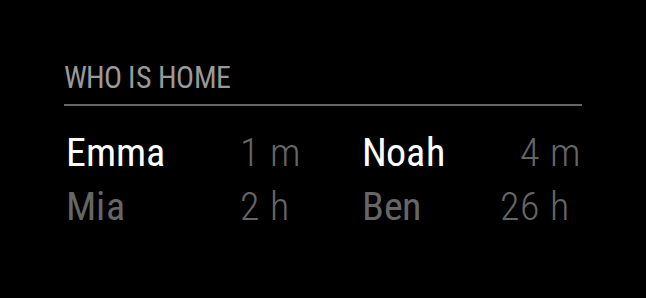
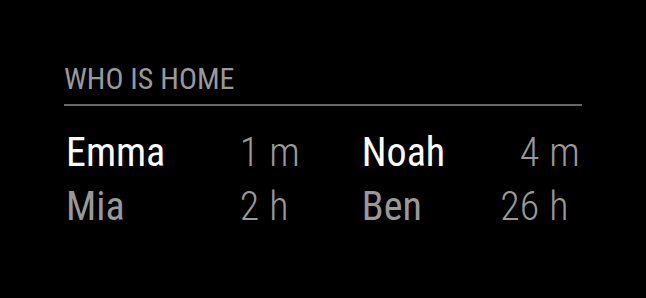
fix: show offline devices in the normal text color instead of dimmed
The names of the devices that are offline and the times since the
devices were last seen were dimmed, the color that MagicMirror² uses
for what matters little or is out of date, so they were hard to read.
Give them the normal text color, like the details in the default
modules, e.g. the times of the events in the calendar, and keep dimmed
for a scan that fails: the table then has the class dimmed, and the
names have no color class of their own. Replace the screenshots.

diff --git a/tests/module.test.js b/tests/module.test.js
@@ -95,7 +95,7 @@ test("shows that it is loading until the devices arrive", () => {
 	assert.deepEqual(rows(module), [["Anna"], ["Ben"]]);
 });
 
-test("shows each device with its icon, bright and in its color while online and dimmed while offline", () => {
+test("shows each device with its icon, bright and in its color while online and in the normal text color while offline", () => {
 	const module = createModule();
 	receive(module, [{ ...ANNA, color: "orange" }, BEN, { ...CARL, online: false, color: "orange" }]);
 	const [anna, ben, carl] = module.getDom().querySelectorAll(".ns-name");
@@ -103,10 +103,12 @@ test("shows each device with its icon, bright and in its color while online and 
 	assert.equal(anna.firstChild.className, "fa-solid fa-fw fa-mobile-screen");
 	assert.equal(anna.firstChild.style.color, "orange");
 	assert.equal(anna.textContent, "Anna");
-	assert.equal(ben.className, "ns-name ns-offline dimmed");
+	assert.equal(ben.className, "ns-name ns-offline");
 	assert.equal(ben.innerHTML, "Ben");
-	// The icon of a device that is offline is dimmed like its name
-	assert.equal(carl.className, "ns-name ns-offline dimmed");
+	// The icon of a device that is offline has the color of its name
+	assert.equal(carl.className, "ns-name ns-offline");
+	// Nothing dimmed while the scan works
+	assert.equal(module.getDom().querySelectorAll(".dimmed").length, 0);
 	assert.equal(carl.firstChild.style.color, "");
 });
 
@@ -146,6 +148,8 @@ test("shows the time since each device was last seen in minutes, hours up to 100
 	const minutes = [-1, 0, 59, 60, 100 * 60 - 1, 100 * 60, 41 * 24 * 60 - 1];
 	receive(module, [BEN, ...minutes.map((ago) => ({ ...BEN, lastSeen: NOW - ago * 60 * 1000 }))]);
 	assert.deepEqual(rows(module).map((cells) => cells.slice(1)), [["–", ""], ["0", "m"], ["0", "m"], ["59", "m"], ["1", "h"], ["99", "h"], ["4", "d"], ["40", "d"]]);
+	// Light, in the normal text color of the table
+	assert.deepEqual(Array.from(module.getDom().querySelector("tr").children, (cell) => cell.className), ["ns-name ns-offline", "ns-time-value light", "ns-time-unit light"]);
 });
 
 test("shows the time since a device was last seen only for the devices that are offline with showLastSeen \"offline\"", () => {
@@ -182,15 +186,16 @@ test("dims all devices while the scan fails, and shows them as before when it wo
 	// The color of the icon of Anna, who is online
 	const color = () => module.getDom().querySelector(".ns-online i").style.color;
 	receive(module, [{ ...ANNA, color: "orange" }, BEN], { code: "ARP_SCAN_NOT_FOUND" });
-	assert.ok(module.getDom().querySelector("table").classList.contains("ns-stale"));
+	assert.equal(module.getDom().querySelector("table").className, "ns-stale dimmed");
 	assert.deepEqual(rows(module), [["Anna"], ["Ben"]]);
-	// The last scan that worked does not tell who is online now
-	assert.deepEqual(names(), ["ns-name ns-online dimmed", "ns-name ns-offline dimmed"]);
+	// The last scan that worked does not tell who is online now: nothing
+	// bright, all in the dimmed color of the table
+	assert.deepEqual(names(), ["ns-name ns-online", "ns-name ns-offline"]);
 	assert.equal(color(), "");
 	receive(module, [{ ...ANNA, color: "orange" }, BEN]);
 	assert.equal(warning(module), null);
-	assert.ok(!module.getDom().querySelector("table").classList.contains("ns-stale"));
-	assert.deepEqual(names(), ["ns-name ns-online bright", "ns-name ns-offline dimmed"]);
+	assert.equal(module.getDom().querySelector("table").className, "");
+	assert.deepEqual(names(), ["ns-name ns-online bright", "ns-name ns-offline"]);
 	assert.equal(color(), "orange");
 });
 

diff --git a/MMM-NetworkScanner.js b/MMM-NetworkScanner.js
@@ -108,9 +108,9 @@ Module.register("MMM-NetworkScanner", {
 	getTable(devices) {
 		const table = document.createElement("table");
 		// While the scan fails, the devices are those of the last scan that
-		// worked. The class ns-stale lets custom.css style them.
+		// worked: dimmed. The class ns-stale lets custom.css style them.
 		if (this.error) {
-			table.className = "ns-stale";
+			table.className = "ns-stale dimmed";
 		}
 		let row;
 		devices.forEach((device, index) => {
@@ -128,14 +128,15 @@ Module.register("MMM-NetworkScanner", {
 	},
 
 	// The name of a device, after its icon if it has one: bright, with the icon
-	// in its color, while the device is online, and dimmed while it is offline
-	// or the scan fails, as the last scan that worked does not tell who is
+	// in its color, while the device is online. Otherwise it has the color of
+	// the table: the normal text color while the device is offline, and dimmed
+	// while the scan fails, as the last scan that worked does not tell who is
 	// online now. The classes ns-online and ns-offline let custom.css style the
 	// devices.
 	getNameCell(device) {
 		const name = document.createElement("td");
 		const bright = device.online && !this.error;
-		name.className = `ns-name ${device.online ? "ns-online" : "ns-offline"} ${bright ? "bright" : "dimmed"}`;
+		name.className = `ns-name ${device.online ? "ns-online" : "ns-offline"}${bright ? " bright" : ""}`;
 		if (device.icon) {
 			const icon = document.createElement("i");
 			icon.className = `fa-solid fa-fw fa-${device.icon}`;
@@ -154,10 +155,10 @@ Module.register("MMM-NetworkScanner", {
 	getLastSeenCells(device) {
 		const [value, unit] = this.config.showLastSeen === "offline" && device.online ? ["", ""] : this.formatLastSeen(device.lastSeen);
 		const valueCell = document.createElement("td");
-		valueCell.className = "ns-time-value dimmed light";
+		valueCell.className = "ns-time-value light";
 		valueCell.textContent = value;
 		const unitCell = document.createElement("td");
-		unitCell.className = "ns-time-unit dimmed light";
+		unitCell.className = "ns-time-unit light";
 		unitCell.textContent = unit;
 		return [valueCell, unitCell];
 	},

diff --git a/README.md b/README.md
@@ -68,7 +68,7 @@ To find the MAC address of a phone, see [Finding the MAC address of a device](#f
 | `interface` | The network interface that arp-scan uses, e.g. `"wlan0"`. Set it if the mirror is connected to more than one network, e.g. by Ethernet and Wi-Fi. | The first connected interface |
 | `updateInterval` | The time between two scans, in seconds, at most 3600. | `60` |
 | `keepAlive` | How long a device counts as online after it last answered, in seconds, at most 86400. | `300` |
-| `showOffline` | Also show the devices that are offline, dimmed. | `true` |
+| `showOffline` | Also show the devices that are offline, in the normal text color instead of bright. | `true` |
 | `showLastSeen` | Show the time since each device last answered, or `–` if it never has: `true` for all devices, `"offline"` only for the devices that are offline. | `false` |
 | `columns` | The number of devices in a row. `1` shows a list. | `1` |
 | `residents` | The `name`s of the devices that tell whether someone is at home, e.g. phones. | `[]` |
